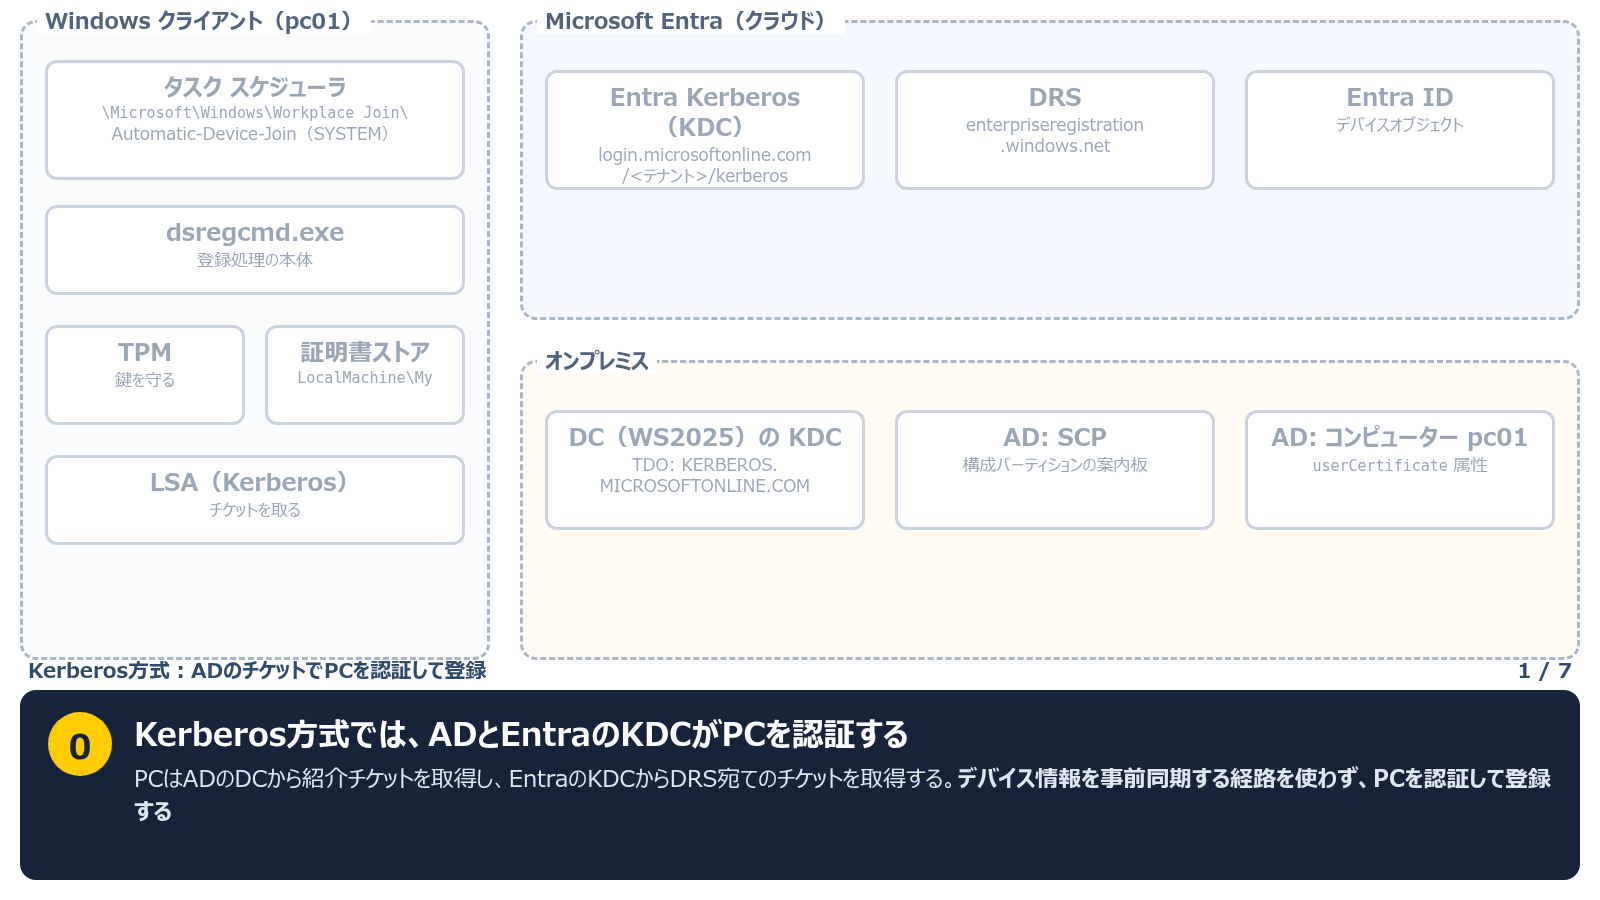
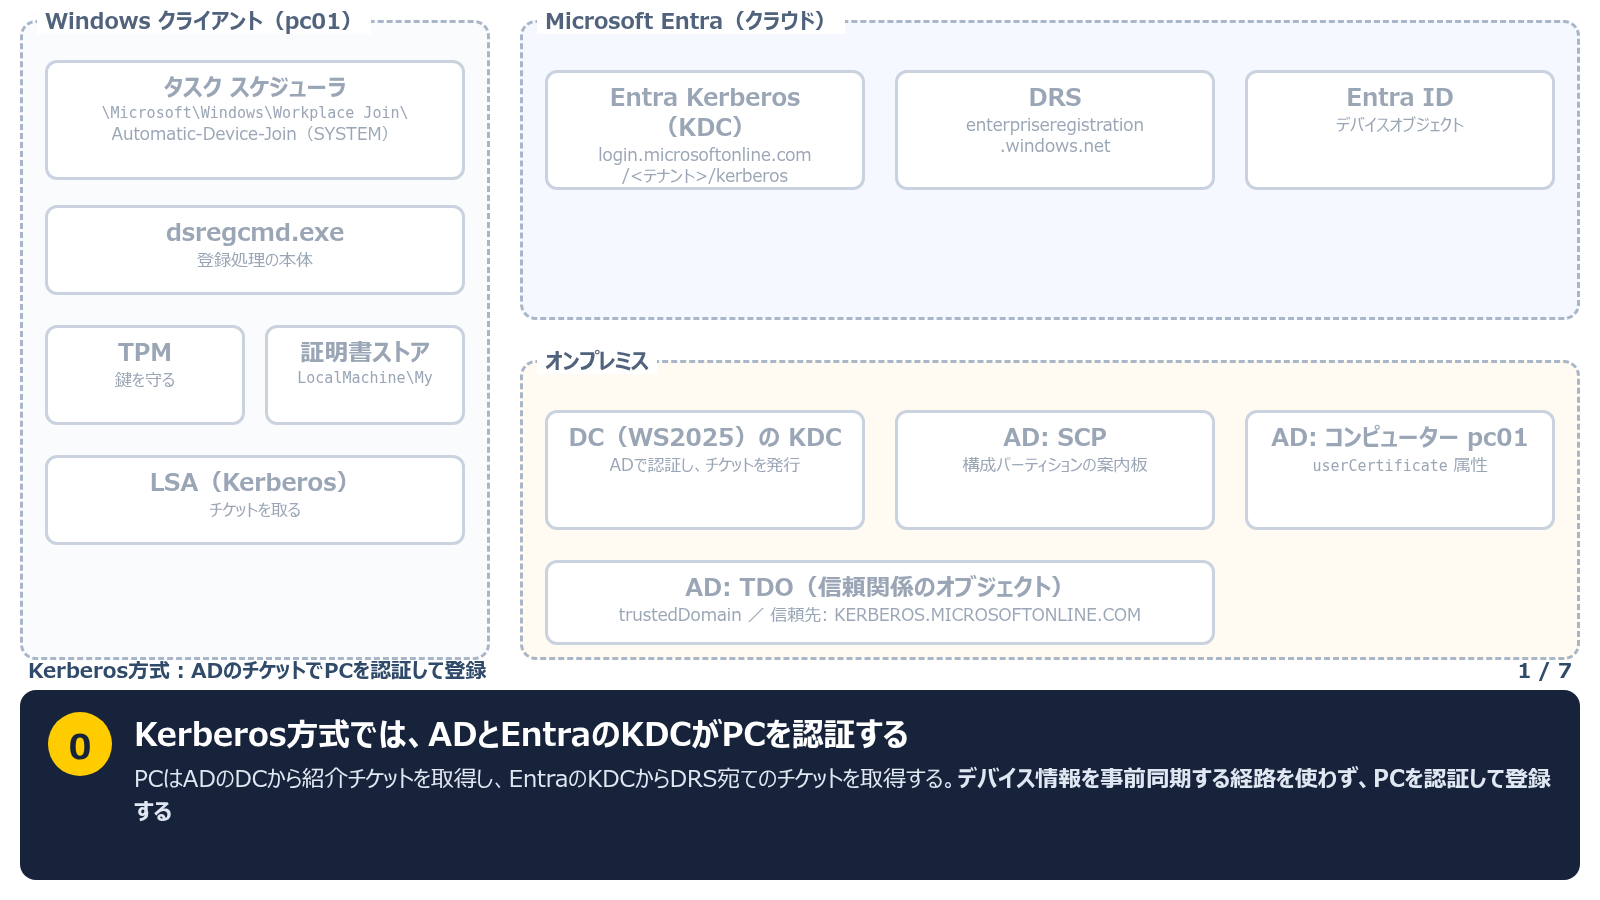
fix: show the AD trust object in Kerberos join diagrams

Changed region(s): [[0.3438, 0.6222, 0.75, 0.7156], [0.375, 0.4978, 0.5, 0.56]]

diff --git a/HCCJP_79/session/frames/gen.py b/HCCJP_79/session/frames/gen.py
@@ -33,7 +33,8 @@ BOX_NEW = dict(BOX_CLIENT,
     ekdc=(545, 70, 320, 120, "Entra Kerberos（KDC）", "login.microsoftonline.com<br>/&lt;テナント&gt;/kerberos"),
     drs=(895, 70, 320, 120, "DRS", "enterpriseregistration<br>.windows.net"),
     entra=(1245, 70, 310, 120, "Entra ID", "デバイスオブジェクト"),
-    kdc=(545, 410, 320, 120, "DC（WS2025）の KDC", "TDO: KERBEROS.<br>MICROSOFTONLINE.COM"),
+    kdc=(545, 410, 320, 120, "DC（WS2025）の KDC", "ADで認証し、チケットを発行"),
+    tdo=(545, 560, 670, 85, "AD: TDO（信頼関係のオブジェクト）", "trustedDomain ／ 信頼先: KERBEROS.MICROSOFTONLINE.COM"),
     scp=(895, 410, 320, 120, "AD: SCP", "構成パーティションの案内板"),
     comp=(1245, 410, 310, 120, "AD: コンピューター pc01", M + "userCertificate</span> 属性"))
 
@@ -124,8 +125,8 @@ NEW = [
      "lit": ["task", "dsreg", "scp"], "arrows": [("task", "b", "dsreg", "t"), ("dsreg", "r", "scp", "t", "LDAP で読む")]},
     {"n": "2", "title": "PCがKerberos方式での登録を試みる", "desc": "対応ビルドのWindows 11は、<code>DEVICE_AUTO_KERB</code> の登録経路を試す。<b>PCの本人確認にKerberosチケットを使う</b>。今回のラボではADの <code>userCertificate</code> への書き込みも観測した",
      "lit": ["dsreg", "lsa", "comp"], "badge": {"comp": "証明書あり"}, "arrows": [("dsreg", "b", "lsa", "t", "チケットを要求"), ("dsreg", "r", "comp", "t")]},
-    {"n": "3", "title": "ADのDCがPCへTGTと紹介チケットを発行する", "desc": "PCはコンピューターアカウントでADに認証する。ADのDCはTGTに加え、<b>TDOの信頼に基づき</b> Entra領域宛ての <code>krbtgt/KERBEROS.MICROSOFTONLINE.COM</code> を発行する",
-     "lit": ["lsa", "kdc"], "badge": {"kdc": "紹介チケットを発行"}, "arrows": [("lsa", "r", "kdc", "l", "Kerberos")]},
+    {"n": "3", "title": "DCがTDOの信頼情報を使い、紹介チケットを発行する", "desc": "PCはコンピューターアカウントでADに認証。DCは<b>TDOの信頼先・信頼鍵を使い</b>、TGTとEntra領域宛ての紹介チケットを発行する。下向きの矢印はDC内部の参照",
+     "lit": ["lsa", "kdc", "tdo"], "badge": {"kdc": "紹介チケットを発行", "tdo": "DCが信頼情報を参照"}, "arrows": [("lsa", "r", "kdc", "l", "Kerberos"), ("kdc", "b", "tdo", "t")]},
     {"n": "4", "title": "EntraがPCへDRS宛てのサービスチケットを発行する", "desc": "PCはAD発行の紹介チケットを、KDCプロキシ経由のHTTPSでEntraへ提示する。Entraは<b>DRS宛てのサービスチケット</b> <code>adrs/enterpriseregistration.windows.net</code> を発行する",
      "lit": ["lsa", "ekdc"], "good": ["ekdc"], "arrows": [("lsa", "r", "ekdc", "b", "KDC プロキシ（HTTPS）")]},
     {"n": "5", "title": "PCがKerberos認証を使い、DRSへ登録を要求する", "desc": "PCはDRSのSPN・タグで有効にしたKerberos認証・トークン交換の経路を使い、DRSへ登録を要求する。<b>Entraにデバイス情報が事前同期されていなくても認証を進められる</b>（内部APIは省略）",
